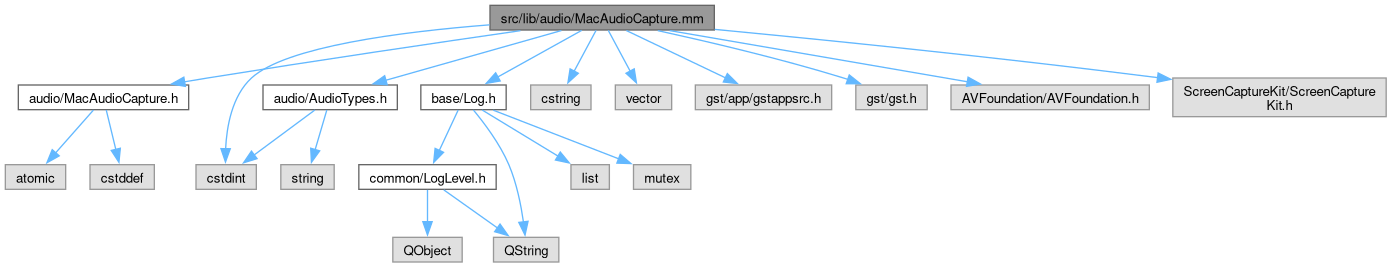
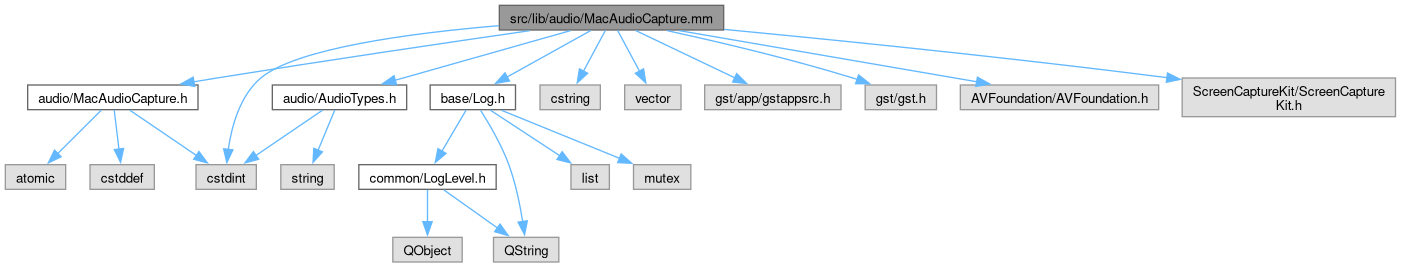
Deploying to gh-pages from @ oudajosefu/deskflow@ccc41e5fde60cacd181e884eb9c1c50f28a8daf9 🚀

diff --git a/MacAudioCapture_8h_source.html b/MacAudioCapture_8h_source.html
@@ -104,48 +104,55 @@ $(function(){initNavTree('MacAudioCapture_8h_source.html','',''); });
 <div class="line"><a id="l00008" name="l00008"></a><span class="lineno">    8</span> </div>
 <div class="line"><a id="l00009" name="l00009"></a><span class="lineno">    9</span><span class="preprocessor">#include &lt;atomic&gt;</span></div>
 <div class="line"><a id="l00010" name="l00010"></a><span class="lineno">   10</span><span class="preprocessor">#include &lt;cstddef&gt;</span></div>
-<div class="line"><a id="l00011" name="l00011"></a><span class="lineno">   11</span> </div>
-<div class="line"><a id="l00012" name="l00012"></a><span class="lineno">   12</span><span class="keyword">typedef</span> <span class="keyword">struct </span>_GstElement <a class="code hl_typedef" href="GstAudioPipeline_8h.html#a8b2d14560b8b4c41de69fe2bd2ce6fa3">GstElement</a>;</div>
-<div class="line"><a id="l00013" name="l00013"></a><span class="lineno">   13</span> </div>
-<div class="line"><a id="l00014" name="l00014"></a><span class="lineno">   14</span><span class="preprocessor">#ifdef __OBJC__</span></div>
-<div class="line"><a id="l00015" name="l00015"></a><span class="lineno">   15</span><span class="keyword">@class</span> <a class="code hl_typedef" href="MacAudioCapture_8h.html#afaf832e82143f75a1d44a1131e4e8061">SCStream</a>;</div>
-<div class="line"><a id="l00016" name="l00016"></a><span class="lineno">   16</span><span class="keyword">@class</span> <a class="code hl_class" href="interfaceDeskflowAudioStreamOutput.html">DeskflowAudioStreamOutput</a>;</div>
-<div class="line"><a id="l00017" name="l00017"></a><span class="lineno">   17</span><span class="preprocessor">#else</span></div>
-<div class="line"><a id="l00018" name="l00018"></a><span class="lineno"><a class="line" href="MacAudioCapture_8h.html#afaf832e82143f75a1d44a1131e4e8061">   18</a></span><span class="keyword">typedef</span> <span class="keyword">struct </span>objc_object <a class="code hl_typedef" href="MacAudioCapture_8h.html#afaf832e82143f75a1d44a1131e4e8061">SCStream</a>;</div>
-<div class="line"><a id="l00019" name="l00019"></a><span class="lineno"><a class="line" href="MacAudioCapture_8h.html#abdaadcb8f51c9c4423ab848590111983">   19</a></span><span class="keyword">typedef</span> <span class="keyword">struct </span>objc_object <a class="code hl_class" href="interfaceDeskflowAudioStreamOutput.html">DeskflowAudioStreamOutput</a>;</div>
-<div class="line"><a id="l00020" name="l00020"></a><span class="lineno">   20</span><span class="preprocessor">#endif</span></div>
-<div class="line"><a id="l00021" name="l00021"></a><span class="lineno">   21</span></div>
-<div class="foldopen" id="foldopen00030" data-start="{" data-end="};">
-<div class="line"><a id="l00030" name="l00030"></a><span class="lineno"><a class="line" href="classMacAudioCapture.html">   30</a></span><span class="keyword">class </span><a class="code hl_function" href="classMacAudioCapture.html#aff3a220f746825c4b0f5a4b9dacf288c">MacAudioCapture</a></div>
-<div class="line"><a id="l00031" name="l00031"></a><span class="lineno">   31</span>{</div>
-<div class="line"><a id="l00032" name="l00032"></a><span class="lineno">   32</span><span class="keyword">public</span>:</div>
-<div class="line"><a id="l00033" name="l00033"></a><span class="lineno"><a class="line" href="classMacAudioCapture.html#aff3a220f746825c4b0f5a4b9dacf288c">   33</a></span>  <a class="code hl_function" href="classMacAudioCapture.html#aff3a220f746825c4b0f5a4b9dacf288c">MacAudioCapture</a>();</div>
-<div class="line"><a id="l00034" name="l00034"></a><span class="lineno">   34</span>  <a class="code hl_function" href="classMacAudioCapture.html#a62c9e8ce91279930aa173e6d4b76a3f0">~MacAudioCapture</a>();</div>
-<div class="line"><a id="l00035" name="l00035"></a><span class="lineno">   35</span> </div>
-<div class="line"><a id="l00036" name="l00036"></a><span class="lineno"><a class="line" href="classMacAudioCapture.html#a711ac2c3c3cc8806ec8b4c4439dd6c9c">   36</a></span>  <a class="code hl_function" href="classMacAudioCapture.html#a711ac2c3c3cc8806ec8b4c4439dd6c9c">MacAudioCapture</a>(<span class="keyword">const</span> <a class="code hl_function" href="classMacAudioCapture.html#aff3a220f746825c4b0f5a4b9dacf288c">MacAudioCapture</a> &amp;) = <span class="keyword">delete</span>;</div>
-<div class="line"><a id="l00037" name="l00037"></a><span class="lineno"><a class="line" href="classMacAudioCapture.html#abd1972553fb1283e08bdd4bc363704a3">   37</a></span>  <a class="code hl_function" href="classMacAudioCapture.html#aff3a220f746825c4b0f5a4b9dacf288c">MacAudioCapture</a> &amp;<a class="code hl_function" href="classMacAudioCapture.html#abd1972553fb1283e08bdd4bc363704a3">operator=</a>(<span class="keyword">const</span> <a class="code hl_function" href="classMacAudioCapture.html#aff3a220f746825c4b0f5a4b9dacf288c">MacAudioCapture</a> &amp;) = <span class="keyword">delete</span>;</div>
-<div class="line"><a id="l00038" name="l00038"></a><span class="lineno">   38</span></div>
-<div class="line"><a id="l00041" name="l00041"></a><span class="lineno">   41</span>  <span class="keywordtype">bool</span> <a class="code hl_function" href="classMacAudioCapture.html#ab99ea295c99d496a291ff7acd391c5f8">start</a>(<a class="code hl_typedef" href="GstAudioPipeline_8h.html#a8b2d14560b8b4c41de69fe2bd2ce6fa3">GstElement</a> *appsrc);</div>
-<div class="line"><a id="l00042" name="l00042"></a><span class="lineno">   42</span></div>
-<div class="line"><a id="l00044" name="l00044"></a><span class="lineno">   44</span>  <span class="keywordtype">void</span> <a class="code hl_function" href="classMacAudioCapture.html#ab6272deb3a61020f766137b7f4d9a7b2">stop</a>();</div>
-<div class="line"><a id="l00045" name="l00045"></a><span class="lineno">   45</span></div>
-<div class="line"><a id="l00048" name="l00048"></a><span class="lineno">   48</span>  <span class="keywordtype">void</span> <a class="code hl_function" href="classMacAudioCapture.html#a3b748eaf940eb835181956c506453be0">pushSamples</a>(<span class="keyword">const</span> <span class="keywordtype">float</span> *<a class="code hl_variable" href="ArchNetworkWinsock_8cpp.html#aa36d05423b2dd8f3c8296093b4674b63">data</a>, <span class="keywordtype">size_t</span> frames);</div>
-<div class="line"><a id="l00049" name="l00049"></a><span class="lineno">   49</span> </div>
-<div class="line"><a id="l00050" name="l00050"></a><span class="lineno">   50</span><span class="keyword">private</span>:</div>
-<div class="line"><a id="l00051" name="l00051"></a><span class="lineno">   51</span>  <a class="code hl_typedef" href="GstAudioPipeline_8h.html#a8b2d14560b8b4c41de69fe2bd2ce6fa3">GstElement</a> *m_appsrc = <span class="keyword">nullptr</span>;</div>
-<div class="line"><a id="l00052" name="l00052"></a><span class="lineno">   52</span>  <a class="code hl_typedef" href="MacAudioCapture_8h.html#afaf832e82143f75a1d44a1131e4e8061">SCStream</a> *m_stream = <span class="keyword">nullptr</span>;</div>
-<div class="line"><a id="l00053" name="l00053"></a><span class="lineno">   53</span>  <a class="code hl_typedef" href="MacAudioCapture_8h.html#abdaadcb8f51c9c4423ab848590111983">DeskflowAudioStreamOutput</a> *m_delegate = <span class="keyword">nullptr</span>;</div>
-<div class="line"><a id="l00054" name="l00054"></a><span class="lineno">   54</span>  std::atomic&lt;bool&gt; m_running{<span class="keyword">false</span>};</div>
-<div class="line"><a id="l00055" name="l00055"></a><span class="lineno">   55</span>};</div>
+<div class="line"><a id="l00011" name="l00011"></a><span class="lineno">   11</span><span class="preprocessor">#include &lt;cstdint&gt;</span></div>
+<div class="line"><a id="l00012" name="l00012"></a><span class="lineno">   12</span> </div>
+<div class="line"><a id="l00013" name="l00013"></a><span class="lineno">   13</span><span class="keyword">typedef</span> <span class="keyword">struct </span>_GstElement <a class="code hl_typedef" href="GstAudioPipeline_8h.html#a8b2d14560b8b4c41de69fe2bd2ce6fa3">GstElement</a>;</div>
+<div class="line"><a id="l00014" name="l00014"></a><span class="lineno">   14</span> </div>
+<div class="line"><a id="l00015" name="l00015"></a><span class="lineno">   15</span><span class="preprocessor">#ifdef __OBJC__</span></div>
+<div class="line"><a id="l00016" name="l00016"></a><span class="lineno">   16</span><span class="keyword">@class</span> <a class="code hl_typedef" href="MacAudioCapture_8h.html#afaf832e82143f75a1d44a1131e4e8061">SCStream</a>;</div>
+<div class="line"><a id="l00017" name="l00017"></a><span class="lineno">   17</span><span class="keyword">@class</span> <a class="code hl_class" href="interfaceDeskflowAudioStreamOutput.html">DeskflowAudioStreamOutput</a>;</div>
+<div class="line"><a id="l00018" name="l00018"></a><span class="lineno">   18</span><span class="preprocessor">#else</span></div>
+<div class="line"><a id="l00019" name="l00019"></a><span class="lineno"><a class="line" href="MacAudioCapture_8h.html#afaf832e82143f75a1d44a1131e4e8061">   19</a></span><span class="keyword">typedef</span> <span class="keyword">struct </span>objc_object <a class="code hl_typedef" href="MacAudioCapture_8h.html#afaf832e82143f75a1d44a1131e4e8061">SCStream</a>;</div>
+<div class="line"><a id="l00020" name="l00020"></a><span class="lineno"><a class="line" href="MacAudioCapture_8h.html#abdaadcb8f51c9c4423ab848590111983">   20</a></span><span class="keyword">typedef</span> <span class="keyword">struct </span>objc_object <a class="code hl_class" href="interfaceDeskflowAudioStreamOutput.html">DeskflowAudioStreamOutput</a>;</div>
+<div class="line"><a id="l00021" name="l00021"></a><span class="lineno">   21</span><span class="preprocessor">#endif</span></div>
+<div class="line"><a id="l00022" name="l00022"></a><span class="lineno">   22</span></div>
+<div class="foldopen" id="foldopen00031" data-start="{" data-end="};">
+<div class="line"><a id="l00031" name="l00031"></a><span class="lineno"><a class="line" href="classMacAudioCapture.html">   31</a></span><span class="keyword">class </span><a class="code hl_function" href="classMacAudioCapture.html#aff3a220f746825c4b0f5a4b9dacf288c">MacAudioCapture</a></div>
+<div class="line"><a id="l00032" name="l00032"></a><span class="lineno">   32</span>{</div>
+<div class="line"><a id="l00033" name="l00033"></a><span class="lineno">   33</span><span class="keyword">public</span>:</div>
+<div class="line"><a id="l00034" name="l00034"></a><span class="lineno"><a class="line" href="classMacAudioCapture.html#aff3a220f746825c4b0f5a4b9dacf288c">   34</a></span>  <a class="code hl_function" href="classMacAudioCapture.html#aff3a220f746825c4b0f5a4b9dacf288c">MacAudioCapture</a>();</div>
+<div class="line"><a id="l00035" name="l00035"></a><span class="lineno">   35</span>  <a class="code hl_function" href="classMacAudioCapture.html#a62c9e8ce91279930aa173e6d4b76a3f0">~MacAudioCapture</a>();</div>
+<div class="line"><a id="l00036" name="l00036"></a><span class="lineno">   36</span> </div>
+<div class="line"><a id="l00037" name="l00037"></a><span class="lineno"><a class="line" href="classMacAudioCapture.html#a711ac2c3c3cc8806ec8b4c4439dd6c9c">   37</a></span>  <a class="code hl_function" href="classMacAudioCapture.html#a711ac2c3c3cc8806ec8b4c4439dd6c9c">MacAudioCapture</a>(<span class="keyword">const</span> <a class="code hl_function" href="classMacAudioCapture.html#aff3a220f746825c4b0f5a4b9dacf288c">MacAudioCapture</a> &amp;) = <span class="keyword">delete</span>;</div>
+<div class="line"><a id="l00038" name="l00038"></a><span class="lineno"><a class="line" href="classMacAudioCapture.html#abd1972553fb1283e08bdd4bc363704a3">   38</a></span>  <a class="code hl_function" href="classMacAudioCapture.html#aff3a220f746825c4b0f5a4b9dacf288c">MacAudioCapture</a> &amp;<a class="code hl_function" href="classMacAudioCapture.html#abd1972553fb1283e08bdd4bc363704a3">operator=</a>(<span class="keyword">const</span> <a class="code hl_function" href="classMacAudioCapture.html#aff3a220f746825c4b0f5a4b9dacf288c">MacAudioCapture</a> &amp;) = <span class="keyword">delete</span>;</div>
+<div class="line"><a id="l00039" name="l00039"></a><span class="lineno">   39</span></div>
+<div class="line"><a id="l00042" name="l00042"></a><span class="lineno">   42</span>  <span class="keywordtype">bool</span> <a class="code hl_function" href="classMacAudioCapture.html#ab99ea295c99d496a291ff7acd391c5f8">start</a>(<a class="code hl_typedef" href="GstAudioPipeline_8h.html#a8b2d14560b8b4c41de69fe2bd2ce6fa3">GstElement</a> *appsrc);</div>
+<div class="line"><a id="l00043" name="l00043"></a><span class="lineno">   43</span></div>
+<div class="line"><a id="l00045" name="l00045"></a><span class="lineno">   45</span>  <span class="keywordtype">void</span> <a class="code hl_function" href="classMacAudioCapture.html#ab6272deb3a61020f766137b7f4d9a7b2">stop</a>();</div>
+<div class="line"><a id="l00046" name="l00046"></a><span class="lineno">   46</span></div>
+<div class="line"><a id="l00049" name="l00049"></a><span class="lineno">   49</span>  <span class="keywordtype">void</span> <a class="code hl_function" href="classMacAudioCapture.html#a3b748eaf940eb835181956c506453be0">pushSamples</a>(<span class="keyword">const</span> <span class="keywordtype">float</span> *<a class="code hl_variable" href="ArchNetworkWinsock_8cpp.html#aa36d05423b2dd8f3c8296093b4674b63">data</a>, <span class="keywordtype">size_t</span> frames);</div>
+<div class="line"><a id="l00050" name="l00050"></a><span class="lineno">   50</span> </div>
+<div class="line"><a id="l00051" name="l00051"></a><span class="lineno">   51</span><span class="keyword">private</span>:</div>
+<div class="line"><a id="l00052" name="l00052"></a><span class="lineno">   52</span>  <a class="code hl_typedef" href="GstAudioPipeline_8h.html#a8b2d14560b8b4c41de69fe2bd2ce6fa3">GstElement</a> *m_appsrc = <span class="keyword">nullptr</span>;</div>
+<div class="line"><a id="l00053" name="l00053"></a><span class="lineno">   53</span>  <a class="code hl_typedef" href="MacAudioCapture_8h.html#afaf832e82143f75a1d44a1131e4e8061">SCStream</a> *m_stream = <span class="keyword">nullptr</span>;</div>
+<div class="line"><a id="l00054" name="l00054"></a><span class="lineno">   54</span>  <a class="code hl_typedef" href="MacAudioCapture_8h.html#abdaadcb8f51c9c4423ab848590111983">DeskflowAudioStreamOutput</a> *m_delegate = <span class="keyword">nullptr</span>;</div>
+<div class="line"><a id="l00055" name="l00055"></a><span class="lineno">   55</span>  std::atomic&lt;bool&gt; m_running{<span class="keyword">false</span>};</div>
+<div class="line"><a id="l00056" name="l00056"></a><span class="lineno">   56</span> </div>
+<div class="line"><a id="l00057" name="l00057"></a><span class="lineno">   57</span>  <span class="comment">// Continuous-timeline timestamping for the appsrc (do-timestamp is off): PTS is</span></div>
+<div class="line"><a id="l00058" name="l00058"></a><span class="lineno">   58</span>  <span class="comment">// derived from the running sample count, anchored once to the pipeline clock.</span></div>
+<div class="line"><a id="l00059" name="l00059"></a><span class="lineno">   59</span>  uint64_t m_framesPushed = 0;</div>
+<div class="line"><a id="l00060" name="l00060"></a><span class="lineno">   60</span>  uint64_t m_basePts = 0; <span class="comment">// running-time (ns) of the first captured sample</span></div>
+<div class="line"><a id="l00061" name="l00061"></a><span class="lineno">   61</span>  <span class="keywordtype">bool</span> m_havePtsBase = <span class="keyword">false</span>;</div>
+<div class="line"><a id="l00062" name="l00062"></a><span class="lineno">   62</span>};</div>
 </div>
 <div class="ttc" id="aArchNetworkWinsock_8cpp_html_aa36d05423b2dd8f3c8296093b4674b63"><div class="ttname"><a href="ArchNetworkWinsock_8cpp.html#aa36d05423b2dd8f3c8296093b4674b63">data</a></div><div class="ttdeci">static int void FAR * data</div><div class="ttdef"><b>Definition</b> ArchNetworkWinsock.cpp:35</div></div>
 <div class="ttc" id="aGstAudioPipeline_8h_html_a8b2d14560b8b4c41de69fe2bd2ce6fa3"><div class="ttname"><a href="GstAudioPipeline_8h.html#a8b2d14560b8b4c41de69fe2bd2ce6fa3">GstElement</a></div><div class="ttdeci">struct _GstElement GstElement</div><div class="ttdef"><b>Definition</b> GstAudioPipeline.h:12</div></div>
-<div class="ttc" id="aMacAudioCapture_8h_html_abdaadcb8f51c9c4423ab848590111983"><div class="ttname"><a href="MacAudioCapture_8h.html#abdaadcb8f51c9c4423ab848590111983">DeskflowAudioStreamOutput</a></div><div class="ttdeci">struct objc_object DeskflowAudioStreamOutput</div><div class="ttdef"><b>Definition</b> MacAudioCapture.h:19</div></div>
-<div class="ttc" id="aMacAudioCapture_8h_html_afaf832e82143f75a1d44a1131e4e8061"><div class="ttname"><a href="MacAudioCapture_8h.html#afaf832e82143f75a1d44a1131e4e8061">SCStream</a></div><div class="ttdeci">struct objc_object SCStream</div><div class="ttdef"><b>Definition</b> MacAudioCapture.h:18</div></div>
-<div class="ttc" id="aclassMacAudioCapture_html_a3b748eaf940eb835181956c506453be0"><div class="ttname"><a href="classMacAudioCapture.html#a3b748eaf940eb835181956c506453be0">MacAudioCapture::pushSamples</a></div><div class="ttdeci">void pushSamples(const float *data, size_t frames)</div><div class="ttdef"><b>Definition</b> MacAudioCapture.mm:216</div></div>
+<div class="ttc" id="aMacAudioCapture_8h_html_abdaadcb8f51c9c4423ab848590111983"><div class="ttname"><a href="MacAudioCapture_8h.html#abdaadcb8f51c9c4423ab848590111983">DeskflowAudioStreamOutput</a></div><div class="ttdeci">struct objc_object DeskflowAudioStreamOutput</div><div class="ttdef"><b>Definition</b> MacAudioCapture.h:20</div></div>
+<div class="ttc" id="aMacAudioCapture_8h_html_afaf832e82143f75a1d44a1131e4e8061"><div class="ttname"><a href="MacAudioCapture_8h.html#afaf832e82143f75a1d44a1131e4e8061">SCStream</a></div><div class="ttdeci">struct objc_object SCStream</div><div class="ttdef"><b>Definition</b> MacAudioCapture.h:19</div></div>
+<div class="ttc" id="aclassMacAudioCapture_html_a3b748eaf940eb835181956c506453be0"><div class="ttname"><a href="classMacAudioCapture.html#a3b748eaf940eb835181956c506453be0">MacAudioCapture::pushSamples</a></div><div class="ttdeci">void pushSamples(const float *data, size_t frames)</div><div class="ttdef"><b>Definition</b> MacAudioCapture.mm:220</div></div>
 <div class="ttc" id="aclassMacAudioCapture_html_a62c9e8ce91279930aa173e6d4b76a3f0"><div class="ttname"><a href="classMacAudioCapture.html#a62c9e8ce91279930aa173e6d4b76a3f0">MacAudioCapture::~MacAudioCapture</a></div><div class="ttdeci">~MacAudioCapture()</div><div class="ttdef"><b>Definition</b> MacAudioCapture.mm:118</div></div>
 <div class="ttc" id="aclassMacAudioCapture_html_a711ac2c3c3cc8806ec8b4c4439dd6c9c"><div class="ttname"><a href="classMacAudioCapture.html#a711ac2c3c3cc8806ec8b4c4439dd6c9c">MacAudioCapture::MacAudioCapture</a></div><div class="ttdeci">MacAudioCapture(const MacAudioCapture &amp;)=delete</div></div>
-<div class="ttc" id="aclassMacAudioCapture_html_ab6272deb3a61020f766137b7f4d9a7b2"><div class="ttname"><a href="classMacAudioCapture.html#ab6272deb3a61020f766137b7f4d9a7b2">MacAudioCapture::stop</a></div><div class="ttdeci">void stop()</div><div class="ttdoc">Stop capture and release the appsrc reference.</div><div class="ttdef"><b>Definition</b> MacAudioCapture.mm:201</div></div>
+<div class="ttc" id="aclassMacAudioCapture_html_ab6272deb3a61020f766137b7f4d9a7b2"><div class="ttname"><a href="classMacAudioCapture.html#ab6272deb3a61020f766137b7f4d9a7b2">MacAudioCapture::stop</a></div><div class="ttdeci">void stop()</div><div class="ttdoc">Stop capture and release the appsrc reference.</div><div class="ttdef"><b>Definition</b> MacAudioCapture.mm:203</div></div>
 <div class="ttc" id="aclassMacAudioCapture_html_ab99ea295c99d496a291ff7acd391c5f8"><div class="ttname"><a href="classMacAudioCapture.html#ab99ea295c99d496a291ff7acd391c5f8">MacAudioCapture::start</a></div><div class="ttdeci">bool start(GstElement *appsrc)</div><div class="ttdef"><b>Definition</b> MacAudioCapture.mm:123</div></div>
 <div class="ttc" id="aclassMacAudioCapture_html_abd1972553fb1283e08bdd4bc363704a3"><div class="ttname"><a href="classMacAudioCapture.html#abd1972553fb1283e08bdd4bc363704a3">MacAudioCapture::operator=</a></div><div class="ttdeci">MacAudioCapture &amp; operator=(const MacAudioCapture &amp;)=delete</div></div>
 <div class="ttc" id="aclassMacAudioCapture_html_aff3a220f746825c4b0f5a4b9dacf288c"><div class="ttname"><a href="classMacAudioCapture.html#aff3a220f746825c4b0f5a4b9dacf288c">MacAudioCapture::MacAudioCapture</a></div><div class="ttdeci">MacAudioCapture()</div></div>

diff --git a/MacAudioCapture_8mm.html b/MacAudioCapture_8mm.html
@@ -109,42 +109,43 @@ Include dependency graph for MacAudioCapture.mm:</div>
 <div class="dyncontent">
 <div class="center"><img src="MacAudioCapture_8mm__incl.png" border="0" usemap="#asrc_2lib_2audio_2MacAudioCapture_8mm" loading="lazy" alt=""/></div>
 <map name="asrc_2lib_2audio_2MacAudioCapture_8mm" id="asrc_2lib_2audio_2MacAudioCapture_8mm">
-<area shape="rect" title=" " alt="" coords="490,5,714,30"/>
-<area shape="rect" href="MacAudioCapture_8h.html" title=" " alt="" coords="18,85,189,110"/>
-<area shape="poly" title=" " alt="" coords="519,33,208,81,186,84,183,79,207,75,521,28"/>
-<area shape="rect" href="AudioTypes_8h.html" title=" " alt="" coords="263,85,397,110"/>
-<area shape="poly" title=" " alt="" coords="559,32,387,83,385,78,564,29"/>
+<area shape="rect" title=" " alt="" coords="499,5,724,30"/>
+<area shape="rect" href="MacAudioCapture_8h.html" title=" " alt="" coords="28,85,198,110"/>
+<area shape="poly" title=" " alt="" coords="529,33,217,81,195,84,193,79,216,75,531,28"/>
 <area shape="rect" title=" " alt="" coords="196,165,256,189"/>
-<area shape="poly" title=" " alt="" coords="487,26,420,34,351,45,291,60,269,69,253,80,242,95,234,113,228,150,223,148,229,111,237,92,250,76,267,65,290,55,349,40,419,29,492,24"/>
-<area shape="rect" href="Log_8h.html" title=" " alt="" coords="421,85,506,110"/>
-<area shape="poly" title=" " alt="" coords="584,29,499,79,497,75,579,31"/>
-<area shape="rect" title=" " alt="" coords="531,85,591,110"/>
-<area shape="poly" title=" " alt="" coords="598,29,576,73,572,69,594,32"/>
-<area shape="rect" title=" " alt="" coords="615,85,672,110"/>
-<area shape="poly" title=" " alt="" coords="609,28,633,72,628,70,607,33"/>
-<area shape="rect" title=" " alt="" coords="695,85,832,110"/>
-<area shape="poly" title=" " alt="" coords="627,28,728,78,723,78,626,33"/>
-<area shape="rect" title=" " alt="" coords="856,85,927,110"/>
-<area shape="poly" title=" " alt="" coords="658,28,746,48,844,75,851,80,845,79,843,81,745,54,658,33"/>
-<area shape="rect" title=" " alt="" coords="951,85,1149,110"/>
-<area shape="poly" title=" " alt="" coords="670,28,970,81,965,82,670,33"/>
-<area shape="rect" title=" " alt="" coords="1173,78,1386,117"/>
-<area shape="poly" title=" " alt="" coords="715,27,917,47,1160,77,1155,78,916,52,715,32"/>
+<area shape="poly" title=" " alt="" coords="496,27,430,35,360,46,301,61,279,70,263,80,250,95,240,113,230,151,226,148,235,111,245,92,259,76,276,65,300,56,359,41,429,30,501,25"/>
+<area shape="rect" href="AudioTypes_8h.html" title=" " alt="" coords="272,85,407,110"/>
+<area shape="poly" title=" " alt="" coords="568,32,396,83,394,78,573,29"/>
+<area shape="rect" href="Log_8h.html" title=" " alt="" coords="430,85,516,110"/>
+<area shape="poly" title=" " alt="" coords="593,29,508,79,506,75,589,31"/>
+<area shape="rect" title=" " alt="" coords="540,85,600,110"/>
+<area shape="poly" title=" " alt="" coords="607,29,585,73,582,69,603,32"/>
+<area shape="rect" title=" " alt="" coords="625,85,681,110"/>
+<area shape="poly" title=" " alt="" coords="619,28,642,72,637,70,616,33"/>
+<area shape="rect" title=" " alt="" coords="705,85,841,110"/>
+<area shape="poly" title=" " alt="" coords="636,28,738,78,732,78,635,33"/>
+<area shape="rect" title=" " alt="" coords="865,85,936,110"/>
+<area shape="poly" title=" " alt="" coords="667,28,756,48,854,75,860,80,855,79,852,81,754,54,667,33"/>
+<area shape="rect" title=" " alt="" coords="960,85,1159,110"/>
+<area shape="poly" title=" " alt="" coords="679,28,979,81,974,82,679,33"/>
+<area shape="rect" title=" " alt="" coords="1182,78,1396,117"/>
+<area shape="poly" title=" " alt="" coords="724,27,926,47,1170,77,1164,78,926,52,724,32"/>
 <area shape="rect" title=" " alt="" coords="5,165,66,189"/>
-<area shape="poly" title=" " alt="" coords="92,112,58,155,53,151,95,108"/>
+<area shape="poly" title=" " alt="" coords="100,112,59,156,55,152,103,108"/>
 <area shape="rect" title=" " alt="" coords="90,165,154,189"/>
-<area shape="poly" title=" " alt="" coords="107,108,118,150,113,149,105,112"/>
-<area shape="poly" title=" " alt="" coords="317,109,255,158,252,153,312,111"/>
+<area shape="poly" title=" " alt="" coords="115,108,122,150,116,149,113,112"/>
+<area shape="poly" title=" " alt="" coords="130,107,199,155,194,157,129,113"/>
+<area shape="poly" title=" " alt="" coords="325,109,257,158,254,153,320,111"/>
 <area shape="rect" title=" " alt="" coords="281,165,334,189"/>
-<area shape="poly" title=" " alt="" coords="329,108,317,152,313,148,325,112"/>
+<area shape="poly" title=" " alt="" coords="337,108,320,152,316,149,333,112"/>
 <area shape="rect" href="LogLevel_8h.html" title=" " alt="" coords="359,165,496,189"/>
-<area shape="poly" title=" " alt="" coords="460,108,441,152,437,148,456,112"/>
+<area shape="poly" title=" " alt="" coords="468,109,444,153,440,149,464,112"/>
 <area shape="rect" title=" " alt="" coords="494,237,559,262"/>
-<area shape="poly" title=" " alt="" coords="474,107,494,133,511,164,521,193,526,224,521,221,516,195,506,166,489,136,472,112"/>
+<area shape="poly" title=" " alt="" coords="482,108,497,134,511,164,525,223,520,221,506,166,493,136,479,113"/>
 <area shape="rect" title=" " alt="" coords="571,165,609,189"/>
-<area shape="poly" title=" " alt="" coords="483,107,561,156,555,156,482,113"/>
+<area shape="poly" title=" " alt="" coords="491,107,562,156,557,155,490,113"/>
 <area shape="rect" title=" " alt="" coords="634,165,691,189"/>
-<area shape="poly" title=" " alt="" coords="494,108,621,159,616,159,493,113"/>
+<area shape="poly" title=" " alt="" coords="502,108,622,158,617,158,501,113"/>
 <area shape="rect" title=" " alt="" coords="393,237,462,262"/>
 <area shape="poly" title=" " alt="" coords="429,188,430,223,425,220,426,192"/>
 <area shape="poly" title=" " alt="" coords="445,187,500,228,495,228,443,192"/>

diff --git a/GstAudioSender_8h_source.html b/GstAudioSender_8h_source.html
@@ -138,13 +138,13 @@ $(function(){initNavTree('GstAudioSender_8h_source.html','',''); });
 <div class="line"><a id="l00060" name="l00060"></a><span class="lineno">   60</span>};</div>
 </div>
 <div class="ttc" id="aclassGstAudioPipeline_html"><div class="ttname"><a href="classGstAudioPipeline.html">GstAudioPipeline</a></div><div class="ttdef"><b>Definition</b> GstAudioPipeline.h:28</div></div>
-<div class="ttc" id="aclassGstAudioSender_html_a4235764f143b4ea859fe59e4d2c779ef"><div class="ttname"><a href="classGstAudioSender.html#a4235764f143b4ea859fe59e4d2c779ef">GstAudioSender::stop</a></div><div class="ttdeci">void stop()</div><div class="ttdoc">Stop and tear down the pipeline.</div><div class="ttdef"><b>Definition</b> GstAudioSender.cpp:107</div></div>
+<div class="ttc" id="aclassGstAudioSender_html_a4235764f143b4ea859fe59e4d2c779ef"><div class="ttname"><a href="classGstAudioSender.html#a4235764f143b4ea859fe59e4d2c779ef">GstAudioSender::stop</a></div><div class="ttdeci">void stop()</div><div class="ttdoc">Stop and tear down the pipeline.</div><div class="ttdef"><b>Definition</b> GstAudioSender.cpp:111</div></div>
 <div class="ttc" id="aclassGstAudioSender_html_a73d8d766286aec7303e2e8a350bc11d0"><div class="ttname"><a href="classGstAudioSender.html#a73d8d766286aec7303e2e8a350bc11d0">GstAudioSender::~GstAudioSender</a></div><div class="ttdeci">~GstAudioSender()</div><div class="ttdef"><b>Definition</b> GstAudioSender.cpp:25</div></div>
 <div class="ttc" id="aclassGstAudioSender_html_a8511ba2a49a31a085006fbd31f0f60dd"><div class="ttname"><a href="classGstAudioSender.html#a8511ba2a49a31a085006fbd31f0f60dd">GstAudioSender::GstAudioSender</a></div><div class="ttdeci">GstAudioSender(std::string serverHost, uint16_t rtpPort)</div><div class="ttdef"><b>Definition</b> GstAudioSender.cpp:19</div></div>
 <div class="ttc" id="aclassGstAudioSender_html_aa2a6ba35c907542337c86f69cc5f6a3d"><div class="ttname"><a href="classGstAudioSender.html#aa2a6ba35c907542337c86f69cc5f6a3d">GstAudioSender::operator=</a></div><div class="ttdeci">GstAudioSender &amp; operator=(const GstAudioSender &amp;)=delete</div></div>
 <div class="ttc" id="aclassGstAudioSender_html_ae75da93926552ff05c8625447b62d8bb"><div class="ttname"><a href="classGstAudioSender.html#ae75da93926552ff05c8625447b62d8bb">GstAudioSender::start</a></div><div class="ttdeci">bool start()</div><div class="ttdoc">Build and start the capture/send pipeline. Returns false on failure.</div><div class="ttdef"><b>Definition</b> GstAudioSender.cpp:46</div></div>
 <div class="ttc" id="aclassGstAudioSender_html_aefaec490548badaf1b5d72e1679a4c75"><div class="ttname"><a href="classGstAudioSender.html#aefaec490548badaf1b5d72e1679a4c75">GstAudioSender::GstAudioSender</a></div><div class="ttdeci">GstAudioSender(const GstAudioSender &amp;)=delete</div></div>
-<div class="ttc" id="aclassMacAudioCapture_html"><div class="ttname"><a href="classMacAudioCapture.html">MacAudioCapture</a></div><div class="ttdef"><b>Definition</b> MacAudioCapture.h:31</div></div>
+<div class="ttc" id="aclassMacAudioCapture_html"><div class="ttname"><a href="classMacAudioCapture.html">MacAudioCapture</a></div><div class="ttdef"><b>Definition</b> MacAudioCapture.h:32</div></div>
 </div><!-- fragment --></div><!-- contents -->
 </div><!-- doc-content -->
 </div><!-- container -->

diff --git a/MacAudioCapture_8h.html b/MacAudioCapture_8h.html
@@ -96,16 +96,19 @@ $(function(){initNavTree('MacAudioCapture_8h.html','',''); });
 <div class="contents">
 <div class="textblock"><code>#include &lt;atomic&gt;</code><br />
 <code>#include &lt;cstddef&gt;</code><br />
+<code>#include &lt;cstdint&gt;</code><br />
 </div><div class="textblock"><div class="dynheader">
 Include dependency graph for MacAudioCapture.h:</div>
 <div class="dyncontent">
 <div class="center"><img src="MacAudioCapture_8h__incl.png" border="0" usemap="#asrc_2lib_2audio_2MacAudioCapture_8h" loading="lazy" alt=""/></div>
 <map name="asrc_2lib_2audio_2MacAudioCapture_8h" id="asrc_2lib_2audio_2MacAudioCapture_8h">
-<area shape="rect" title=" " alt="" coords="5,5,215,30"/>
-<area shape="rect" title=" " alt="" coords="37,78,98,103"/>
-<area shape="poly" title=" " alt="" coords="105,29,84,66,80,63,101,32"/>
-<area shape="rect" title=" " alt="" coords="122,78,186,103"/>
-<area shape="poly" title=" " alt="" coords="119,28,141,65,136,65,116,33"/>
+<area shape="rect" title=" " alt="" coords="18,5,227,30"/>
+<area shape="rect" title=" " alt="" coords="5,78,66,103"/>
+<area shape="poly" title=" " alt="" coords="110,30,63,70,60,66,105,31"/>
+<area shape="rect" title=" " alt="" coords="90,78,154,103"/>
+<area shape="poly" title=" " alt="" coords="124,29,125,64,120,61,120,33"/>
+<area shape="rect" title=" " alt="" coords="179,78,239,103"/>
+<area shape="poly" title=" " alt="" coords="137,28,186,68,180,68,136,33"/>
 </map>
 </div>
 </div><div class="textblock"><div class="dynheader">

diff --git a/interfaceDeskflowAudioStreamOutput.html b/interfaceDeskflowAudioStreamOutput.html
@@ -140,7 +140,7 @@ Instance Methods</h2></td></tr>
 </div><div class="memdoc">
 <b>Initial value:</b><div class="fragment"><div class="line">{</div>
 <div class="line">  <a class="code hl_class" href="classMacAudioCapture.html">MacAudioCapture</a> *_capture</div>
-<div class="ttc" id="aclassMacAudioCapture_html"><div class="ttname"><a href="classMacAudioCapture.html">MacAudioCapture</a></div><div class="ttdef"><b>Definition</b> MacAudioCapture.h:31</div></div>
+<div class="ttc" id="aclassMacAudioCapture_html"><div class="ttname"><a href="classMacAudioCapture.html">MacAudioCapture</a></div><div class="ttdef"><b>Definition</b> MacAudioCapture.h:32</div></div>
 </div><!-- fragment -->
 </div>
 </div>
